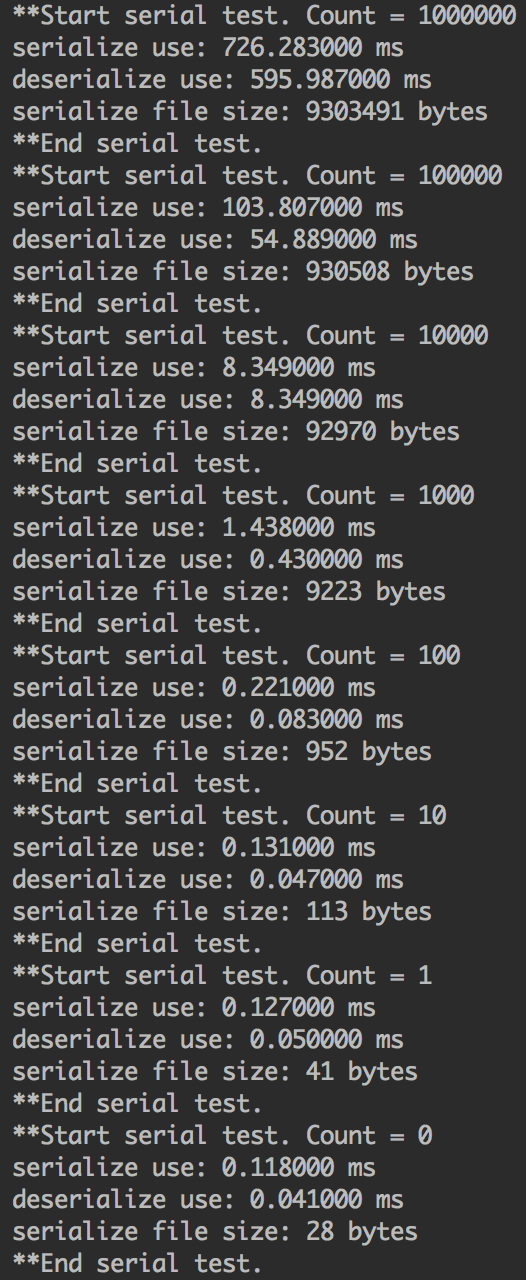
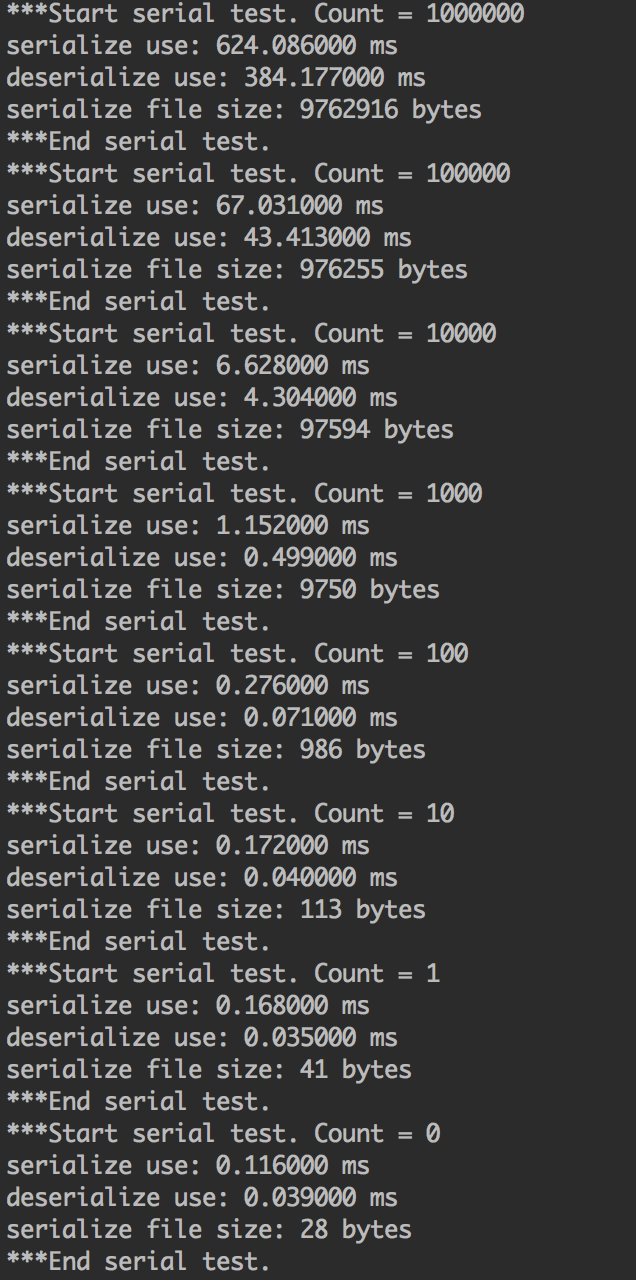
fix fread & fwrite endian

diff --git a/BPTree.h b/BPTree.h
@@ -71,10 +71,10 @@ private:
 public:
 
     explicit BPTree(unsigned int order) :
-            comp(),
             order(std::max(MIN_ORDER, order)),
             size(0),
             minLoad((this->order + 1) / 2),
+            comp(),
             initCap(std::max(std::min(this->order,
                                       initCap), this->minLoad)),
             root(new Node(this->initCap,
@@ -86,18 +86,18 @@ public:
             order(std::max(MIN_ORDER, order)),
             size(0),
             minLoad((this->order + 1) / 2),
+            comp(comp),
             initCap(std::max(std::min(this->order,
                                       initCap), this->minLoad)),
-            comp(comp),
             root(new Node(this->initCap,
                           true, comp)) {}
 
     BPTree(const BPTree &another) :
             order(another.order),
-            minLoad(another.minLoad),
             size(another.size),
-            initCap(another.initCap),
-            comp(another.comp) {
+            minLoad(another.minLoad),
+            comp(another.comp),
+            initCap(another.initCap) {
         root = copyNode(NULL, another.root);
         recoverLinkList(false);
     }
@@ -712,28 +712,28 @@ std::shared_ptr<BPTree<K, V, Comp>> BPTree<K, V, Comp>::deserialize(const std::s
     if (buf[0] != sizeof(short) || buf[1] != sizeof(unsigned int) || buf[2] != sizeof(long)) {
         throw std::string("this file is not compatible with machine");
     }
-    auto sizeofK = bp_tree_utils::readVal<unsigned int>(f);
+    auto sizeofK = bp_tree_utils::readValLittle<unsigned int>(f);
     if (sizeofK < sizeof(K)) {
         throw bp_tree_utils::stringFormat("Wrong sizeof(K): expected %d but got %d (offset: 8)", sizeof(K), sizeofK);
     }
 
-    auto sizeofV = bp_tree_utils::readVal<unsigned int>(f);
+    auto sizeofV = bp_tree_utils::readValLittle<unsigned int>(f);
     if (sizeofV != sizeof(V)) {
         throw bp_tree_utils::stringFormat("Wrong sizeof(V): expected %d but got %d (offset: 12)", sizeof(V), sizeofV);
     }
 
 
-    auto order = bp_tree_utils::readVal<unsigned int>(f);
+    auto order = bp_tree_utils::readValLittle<unsigned int>(f);
     if (order < 2) {
         throw bp_tree_utils::stringFormat("Wrong order: %d (offset: 16)", order);
     }
 
-    auto initCap = bp_tree_utils::readVal<unsigned int>(f);
+    auto initCap = bp_tree_utils::readValLittle<unsigned int>(f);
     if (initCap > order) {
         throw bp_tree_utils::stringFormat("Wrong initCap: %d (offset: 20)", initCap);
     }
 
-    auto size = bp_tree_utils::readVal<unsigned int>(f);
+    auto size = bp_tree_utils::readValLittle<unsigned int>(f);
     if (size < 0) {
         throw bp_tree_utils::stringFormat("Wrong size: %d (offset: 24)", initCap);
     }
@@ -762,8 +762,8 @@ std::shared_ptr<BPTree<K, V, Comp>> BPTree<K, V, Comp>::deserialize(const std::s
 
 template<typename K, typename V, class Comp>
 typename BPTree<K, V, Comp>::Node *BPTree<K, V, Comp>::deserializeNode(FILE *f, Node *parentNode) {
-    bool leaf = bp_tree_utils::readVal<bool>(f) != 0;
-    auto s = bp_tree_utils::readVal<unsigned int>(f);
+    bool leaf = bp_tree_utils::readValLittle<bool>(f) != 0;
+    auto s = bp_tree_utils::readValLittle<unsigned int>(f);
     if ((parentNode && s < minLoad) || s > order) {
         throw bp_tree_utils::stringFormat("Illegal keys size: size: %d, order: %d(offset: %ld)",
                                           s, order, ftell(f) - sizeof(int));
@@ -771,16 +771,16 @@ typename BPTree<K, V, Comp>::Node *BPTree<K, V, Comp>::deserializeNode(FILE *f, 
     Node *node = new Node(initCap, leaf, comp);
     node->parentPtr = parentNode;
     for (int i = 0; i < s; ++i) {
-        node->keys.add(bp_tree_utils::readVal<K>(f));
+        node->keys.add(bp_tree_utils::readValLittle<K>(f));
     }
     if (leaf) {
         for (int i = 0; i < s; ++i) {
-            node->values.add(bp_tree_utils::readVal<V>(f));
+            node->values.add(bp_tree_utils::readValLittle<V>(f));
         }
     } else {
         long offset;
         for (int i = 0; i < s; ++i) {
-            long childOffset = bp_tree_utils::readVal<long>(f);
+            long childOffset = bp_tree_utils::readValLittle<long>(f);
             offset = ftell(f);
             fseek(f, childOffset, SEEK_SET);
             node->childNodePtrs.add(deserializeNode(f, node));

diff --git a/Utils.h b/Utils.h
@@ -9,8 +9,8 @@
 #include <cerrno>
 #include <string>
 
-static int test = 1;
-static bool isMachineLittleEndian = *((char *) &test) == 1;
+static const int TEST_ENDIAN_VAL = 1;
+static const bool IS_MACHINE_LITTLE_ENDIAN = *((char *) &TEST_ENDIAN_VAL) == 1;
 
 // all file io is in little-endian
 namespace bp_tree_utils {
@@ -24,14 +24,12 @@ namespace bp_tree_utils {
     }
 
     inline void changeEndian(void *ptr, size_t size, size_t nitems) {
-        if (!isMachineLittleEndian) {
-            auto valPtr = (unsigned char *) ptr;
-            for (size_t i = 0; i < nitems; ++i) {
-                for (size_t j = 0, k = size - 1; j < k; ++j, --k) {
-                    unsigned char b = valPtr[i * size + j];
-                    valPtr[i * size + j] = valPtr[i * size + k];
-                    valPtr[i * size + k] = b;
-                }
+        auto valPtr = (unsigned char *) ptr;
+        for (size_t i = 0; i < nitems; ++i) {
+            for (size_t j = 0, k = size - 1; j < k; ++j, --k) {
+                unsigned char b = valPtr[i * size + j];
+                valPtr[i * size + j] = valPtr[i * size + k];
+                valPtr[i * size + k] = b;
             }
         }
     }
@@ -49,7 +47,6 @@ namespace bp_tree_utils {
         if (std::fread(ptr, size, nitems, stream) != nitems) {
             throw std::string("Read from file failed");
         }
-        changeEndian(ptr, size, nitems);
     }
 
 
@@ -59,15 +56,37 @@ namespace bp_tree_utils {
     }
 
     template<typename T>
-    void writeValLittle(T val, FILE *stream) {
-        changeEndian(&val, sizeof(T), 1);
-        bp_tree_utils::fwrite(&val, sizeof(T), 1, stream);
+    void writeValLittle(const T &val, FILE *stream) {
+        if (IS_MACHINE_LITTLE_ENDIAN) {
+            bp_tree_utils::fwrite(&val, sizeof(T), 1, stream);
+        } else {
+            unsigned char ptr[sizeof(T)];
+            memcpy(ptr, &val, sizeof(T));
+            changeEndian(ptr, sizeof(T), 1);
+            bp_tree_utils::fwrite(&ptr, 1, sizeof(T), stream);
+        }
     }
 
     template<typename T>
-    void writeArrayLittle(T *arr, size_t length, FILE *stream) {
-        changeEndian(arr, sizeof(T), length);
-        bp_tree_utils::fwrite(arr, sizeof(T), length, stream);
+    void writeArrayLittle(const T *arr, size_t length, FILE *stream) {
+        if (IS_MACHINE_LITTLE_ENDIAN) {
+            bp_tree_utils::fwrite(arr, sizeof(T), length, stream);
+        } else {
+            std::unique_ptr<unsigned char[]> ptr(new unsigned char[sizeof(T) * length]);
+            memcpy(ptr.get(), arr, sizeof(T) * length);
+            changeEndian(ptr.get(), sizeof(T), length);
+            bp_tree_utils::fwrite(ptr.get(), 1, sizeof(T) * length, stream);
+        }
+    }
+
+    template<typename T>
+    T readValLittle(FILE *stream) {
+        T val;
+        bp_tree_utils::fread(&val, sizeof(T), 1, stream);
+        if (!IS_MACHINE_LITTLE_ENDIAN) {
+            changeEndian(&val, sizeof(T), 1);
+        }
+        return val;
     }
 
     template<typename T>
@@ -85,11 +104,6 @@ namespace bp_tree_utils {
         std::unique_ptr<char[]> buf(new char[size]);
         snprintf(buf.get(), static_cast<size_t>(size), format.c_str(), args ...);
         return std::string(buf.get(), buf.get() + size - 1);
-    }
-
-    inline bool isLittleEndiant() {
-        int test = 1;
-        return *((char *) &test) == 1;
     }
 }
 

diff --git a/Test.cpp b/Test.cpp
@@ -462,13 +462,18 @@ void testBPTreeMemory() {
 
 
 void testBPTreeSerial(int serialCount) {
-    printf("**Start serial test. Count = %d\n", serialCount);
+    printf("***Start serial test. Count = %d\n", serialCount);
     srand(static_cast<unsigned int>(time(nullptr)));
-    int *arr = new int[serialCount];
+    unique_ptr<int[]> arr(new int[serialCount]);
     for (int i = 0; i < serialCount; ++i) {
         arr[i] = i;
     }
-    qsort(arr, static_cast<size_t>(serialCount), sizeof(int), randomComp);
+
+    for (int i = serialCount / 3, j = serialCount * 2 / 3; i < j; i++, j--) {
+        int tmp = arr[i];
+        arr[i] = arr[j];
+        arr[j] = tmp;
+    }
 
     BPTree<int, int> tree(20);
     for (int i = 0; i < serialCount; ++i) {
@@ -497,7 +502,7 @@ void testBPTreeSerial(int serialCount) {
         assert(*(dTreePtr->get(arr[i])) == i);
     }
     remove("test.bpt");
-    printf("**End serial test.\n");
+    printf("***End serial test.\n");
 }
 
 template<class Function>

diff --git a/List.h b/List.h
@@ -15,8 +15,8 @@ const static unsigned int MIN_CAP = 1;
 template<typename T, class Comp = DefaultCompare<T>>
 class List {
 private:
-    const Comp comp;
     unsigned int cap{};
+    const Comp comp;
     unsigned int size = 0;
     T *values;
 
@@ -38,7 +38,7 @@ public:
         }
     }
 
-    List(List &list) : comp(list.comp), cap(list.cap), size(list.size) {
+    List(List &list) : cap(list.cap), comp(list.comp), size(list.size) {
         values = (T *) malloc(byteSize(cap));
         if (!values) {
             throw "cannot malloc";

diff --git a/main.cpp b/main.cpp
@@ -5,10 +5,10 @@
 #include "Utils.h"
 
 #define TEST_LIST 0
-#define TEST_FUNC 1
+#define TEST_FUNC 0
 #define TEST_SPEED 0
 #define TEST_MEM 0
-#define TEST_SERIAL 0
+#define TEST_SERIAL 1
 
 using namespace std;
 

diff --git a/README.md b/README.md
@@ -143,7 +143,6 @@ struct Node {
 
 - 对于非叶子节点
 
-
 | 偏移(相对于节点起始，byte) | 大小(byte) |                   内容                   |
 | :------------------------: | :--------: | :--------------------------------------: |
 |    5 +  kSize * sizeofK    | kSize * 8  | long类型，按顺序存储字节点在文件中的偏移 |
@@ -333,11 +332,11 @@ struct Node {
 
  | 数据量 | 序列化(ms) | 反序列化(ms) | 文件大小(bytes) |
  | :----: | :--------: | :----------: | :-------------: |
- |   0    |   0.118    |    0.041     |       28        |
- |   1    |   0.127    |     0.05     |       41        |
- |   10   |   0.131    |    0.047     |       113       |
- |  10^2  |   0.221    |    0.083     |       952       |
- |  10^3  |   1.438    |    0.430     |      9223       |
- |  10^4  |   8.349    |    8.349     |      92970      |
- |  10^5  |  103.807   |    54.889    |     930508      |
- |  10^6  |  726.283   |   595.987    |     9303491     |
+ |   0    |   0.116    |    0.039     |       28        |
+ |   1    |   0.168    |    0.035     |       41        |
+ |   10   |   0.172    |    0.040     |       113       |
+ |  10^2  |   0.276    |    0.071     |       986       |
+ |  10^3  |   1.152    |    0.499     |      9750       |
+ |  10^4  |   6.628    |    4.304     |      97594      |
+ |  10^5  |   67.031   |    43.413    |     976255      |
+ |  10^6  |  624.086   |   384.177    |     9262916     |
